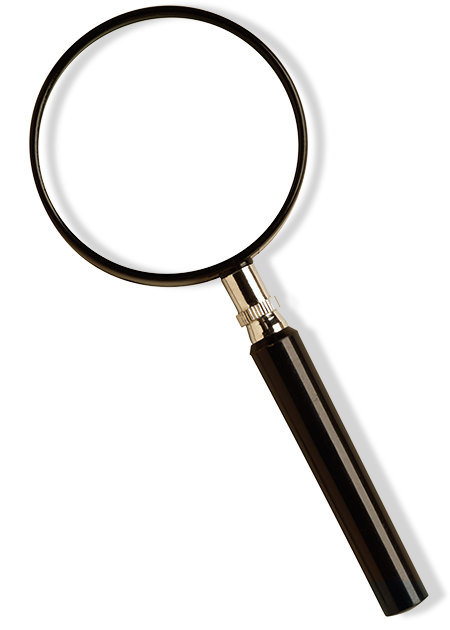
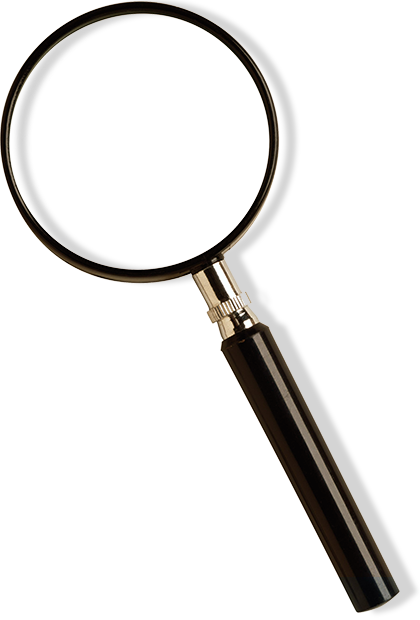
Resize Pedigree

Changed region(s): [[0.0, 0.0, 0.9905, 1.0]]

diff --git a/InteractiveTable/Pages/Pedigree.xaml b/InteractiveTable/Pages/Pedigree.xaml
@@ -47,13 +47,13 @@
         </Popup>
 
         <Canvas x:Name="magnifierCanvas" IsHitTestVisible="False">
-            <Ellipse x:Name="magnifierEllipse" Width="230" Height="230" StrokeThickness="5">
+            <Ellipse x:Name="magnifierEllipse" Width="270" Height="270" StrokeThickness="10" Margin="5">
                 <Ellipse.Fill>
                     <VisualBrush ViewboxUnits="Absolute" Viewbox="0,0,80,80"
                          ViewportUnits="RelativeToBoundingBox" Viewport="0,0,1,1"/>
                 </Ellipse.Fill>
             </Ellipse>
-            <Image Source="/InteractiveTable;component/Images/Pedigree/Magnifier.png" Stretch="Fill" Width="330" Height="480"/>
+            <Image Source="/InteractiveTable;component/Images/Pedigree/Magnifier.png" Stretch="Fill" Width="420" Height="620"/>
         </Canvas>
     </Canvas>
 </Page>
